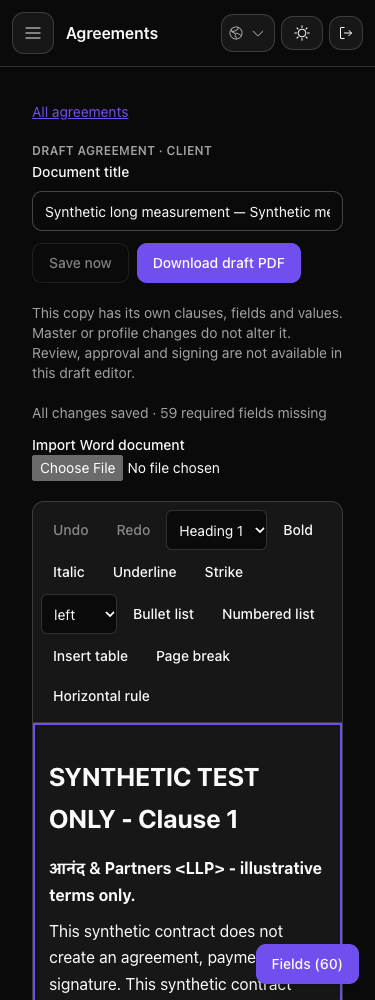
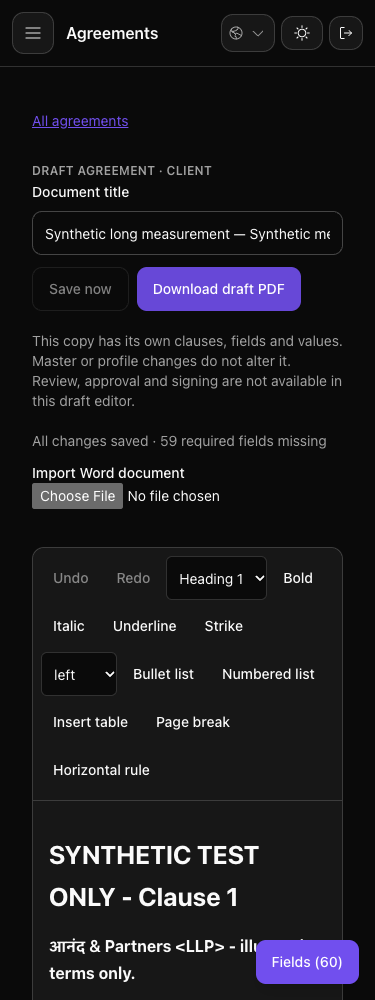
fix: improve agreement touch targets and search recovery

diff --git a/app/javascript/src/components/Agreements/index.tsx b/app/javascript/src/components/Agreements/index.tsx
@@ -36,6 +36,7 @@ const Generate = ({
   const [title, setTitle] = useState(template.title);
   const [error, setError] = useState("");
   const [busy, setBusy] = useState(false);
+  const [refresh, setRefresh] = useState(0);
   const mounted = useRef(true);
   useEffect(
     () => () => {
@@ -47,6 +48,7 @@ const Generate = ({
   useEffect(() => {
     let active = true;
     setParties(null);
+    setError("");
     const timer = setTimeout(() => {
       Api.get("/agreements/parties", {
         ...quiet,
@@ -68,7 +70,7 @@ const Generate = ({
       active = false;
       clearTimeout(timer);
     };
-  }, [query, page, template.kind]);
+  }, [query, page, template.kind, refresh]);
 
   const generate = async (event: React.FormEvent) => {
     event.preventDefault();
@@ -99,7 +101,7 @@ const Generate = ({
 
   return (
     <Dialog open onOpenChange={open => !open && !busy && close()}>
-      <DialogContent>
+      <DialogContent className="agreement-controls">
         <DialogHeader>
           <DialogTitle>Generate draft</DialogTitle>
           <DialogDescription>
@@ -195,9 +197,18 @@ const Generate = ({
             </div>
           )}
           {error && (
-            <p role="alert" className="text-sm text-destructive">
-              {error}
-            </p>
+            <div role="alert" className="space-y-2">
+              <p className="text-sm text-destructive">{error}</p>
+              {!parties && (
+                <Button
+                  type="button"
+                  variant="outline"
+                  onClick={() => setRefresh(value => value + 1)}
+                >
+                  Retry search
+                </Button>
+              )}
+            </div>
           )}
           <div className="flex justify-end gap-2">
             <Button
@@ -291,7 +302,7 @@ const Workspace = ({ companyId }: { companyId: number | string }) => {
   };
 
   return (
-    <div className="mx-auto max-w-7xl space-y-6 p-4 md:p-6">
+    <div className="agreement-controls mx-auto max-w-7xl space-y-6 p-4 md:p-6">
       <div className="flex flex-wrap items-start justify-between gap-3">
         <div>
           <h1 className="text-2xl font-semibold">Agreements</h1>
@@ -399,7 +410,7 @@ const Workspace = ({ companyId }: { companyId: number | string }) => {
         </div>
       )}
       <Dialog open={creating} onOpenChange={open => !busy && setCreating(open)}>
-        <DialogContent>
+        <DialogContent className="agreement-controls">
           <DialogHeader>
             <DialogTitle>New agreement template</DialogTitle>
             <DialogDescription>

diff --git a/app/javascript/src/components/Agreements/Editor.tsx b/app/javascript/src/components/Agreements/Editor.tsx
@@ -335,7 +335,7 @@ const LoadedEditor = ({
   ).length;
 
   return (
-    <div className="mx-auto max-w-7xl space-y-5 p-4 md:p-6">
+    <div className="agreement-controls mx-auto max-w-7xl space-y-5 p-4 md:p-6">
       <Link to="/agreements" className="text-sm text-primary underline">
         All agreements
       </Link>
@@ -483,6 +483,7 @@ const LoadedEditor = ({
       </Button>
       <Dialog open={fieldsOpen} onOpenChange={setFieldsOpen}>
         <DialogContent
+          className="agreement-controls"
           onCloseAutoFocus={event => {
             event.preventDefault();
             editor.current?.commands.focus();
@@ -502,7 +503,7 @@ const LoadedEditor = ({
         open={Boolean(preview)}
         onOpenChange={open => !open && setPreview(null)}
       >
-        <DialogContent className="max-h-[90vh] max-w-4xl overflow-y-auto">
+        <DialogContent className="agreement-controls max-h-[90vh] max-w-4xl overflow-y-auto">
           <DialogHeader>
             <DialogTitle>Preview Word import</DialogTitle>
             <DialogDescription>
@@ -541,7 +542,7 @@ const LoadedEditor = ({
         </DialogContent>
       </Dialog>
       <Dialog open={workspaceWarning} onOpenChange={setWorkspaceWarning}>
-        <DialogContent>
+        <DialogContent className="agreement-controls">
           <DialogHeader>
             <DialogTitle>Unsaved changes</DialogTitle>
             <DialogDescription>
@@ -554,7 +555,7 @@ const LoadedEditor = ({
         </DialogContent>
       </Dialog>
       <Dialog open={confirmReload} onOpenChange={setConfirmReload}>
-        <DialogContent>
+        <DialogContent className="agreement-controls">
           <DialogHeader>
             <DialogTitle>Discard local edits?</DialogTitle>
             <DialogDescription>
@@ -576,7 +577,7 @@ const LoadedEditor = ({
           if (!open && blocker.state === "blocked") blocker.reset();
         }}
       >
-        <DialogContent>
+        <DialogContent className="agreement-controls">
           <DialogHeader>
             <DialogTitle>Unsaved changes</DialogTitle>
             <DialogDescription>
@@ -638,7 +639,7 @@ const Editor = ({
   }, [companyId, type, id, refresh]);
   if (error) {
     return (
-      <div role="alert" className="space-y-3 p-6">
+      <div role="alert" className="agreement-controls space-y-3 p-6">
         <p>{error}</p>
         <Button onClick={() => setRefresh(value => value + 1)}>Retry</Button>
         <Link to="/agreements">All agreements</Link>

diff --git a/app/javascript/src/components/Agreements/Fields.tsx b/app/javascript/src/components/Agreements/Fields.tsx
@@ -229,7 +229,7 @@ const Fields = ({
 
   return (
     <aside
-      className="min-w-0 space-y-4 rounded-lg border border-border bg-card p-4"
+      className="agreement-controls min-w-0 space-y-4 rounded-lg border border-border bg-card p-4"
       aria-label="Document fields"
     >
       <div className="flex items-center justify-between gap-2">
@@ -311,7 +311,7 @@ const Fields = ({
         open={Boolean(removing)}
         onOpenChange={open => !open && setRemoving(null)}
       >
-        <DialogContent>
+        <DialogContent className="agreement-controls">
           <DialogHeader>
             <DialogTitle>Remove field?</DialogTitle>
             <DialogDescription>
@@ -338,7 +338,7 @@ const Fields = ({
         open={Boolean(editing)}
         onOpenChange={open => !open && setEditing(null)}
       >
-        <DialogContent>
+        <DialogContent className="agreement-controls">
           <DialogHeader>
             <DialogTitle>{original ? "Edit field" : "Add field"}</DialogTitle>
             <DialogDescription>

diff --git a/app/javascript/src/components/Agreements/editor.css b/app/javascript/src/components/Agreements/editor.css
@@ -1,3 +1,24 @@
+.agreement-controls button,
+.agreement-controls input:not([type="checkbox"]):not([type="radio"]),
+.agreement-controls select {
+  min-height: 2.75rem;
+  min-width: 2.75rem;
+}
+.agreement-controls label:has(input) {
+  min-height: 2.75rem;
+}
+.agreement-controls a {
+  display: inline-flex;
+  align-items: center;
+  min-height: 2.75rem;
+}
+.agreement-controls[role="dialog"] > button:last-child {
+  display: grid;
+  place-items: center;
+}
+.agreement-controls[role="dialog"] > div:first-child {
+  padding-right: 2.75rem;
+}
 .agreement-select {
   min-width: 0;
   width: 100%;

diff --git a/app/javascript/src/components/Agreements/DocumentEditor.tsx b/app/javascript/src/components/Agreements/DocumentEditor.tsx
@@ -75,7 +75,7 @@ const Toolbar = ({ editor }: { editor: Editor }) => {
   return (
     <div
       className="sticky top-0 z-10 flex flex-wrap items-center gap-1 rounded-t-lg border-b border-border bg-card p-2"
-      role="toolbar"
+      role="group"
       aria-label="Contract formatting"
     >
       {button(

diff --git a/spec/system/responsive/agreements_spec.rb b/spec/system/responsive/agreements_spec.rb
@@ -91,10 +91,51 @@ RSpec.describe "Agreement authoring", type: :system, js: true do
         expect(page.evaluate_script("document.documentElement.scrollWidth <= window.innerWidth + 1")).to be(true)
       end
       page.current_window.resize_to(375, 900)
+      heights = page.evaluate_script("Array.from(document.querySelectorAll('[aria-label=\"Contract formatting\"] button, [aria-label=\"Contract formatting\"] select'), element => element.getBoundingClientRect().height)")
+      expect(heights).not_to be_empty
+      expect(heights).to all(be >= 44)
       click_button "Fields (1)"
-      within('[role="dialog"]') { expect(page).to have_button("Edit Legal name") }
+      find('[role="dialog"]') { |dialog| dialog.evaluate_script("this.getAnimations().every(animation => animation.playState === 'finished')") }
+      within('[role="dialog"]') do
+        expect(page).to have_button("Edit Legal name")
+        expect(all("button").map { |button| button.evaluate_script("this.getBoundingClientRect().height") }).to all(be >= 44)
+      end
       expect(@console_errors).to be_empty
     end
+  end
+
+  it "retries a failed counterparty search without requiring the query to change" do
+    template = master
+    consultant = create(:employment, company:, resigned_at: nil, employment_type: "Consultant")
+    consultant.user.update!(first_name: "Synthetic", last_name: "Retry Consultant")
+    open_agreements
+    page.execute_script(<<~JS)
+      const open = XMLHttpRequest.prototype.open;
+      const send = XMLHttpRequest.prototype.send;
+      XMLHttpRequest.prototype.open = function(method, url, ...args) {
+        this.isPartySearch = String(url).includes("/agreements/parties");
+        return open.call(this, method, url, ...args);
+      };
+      XMLHttpRequest.prototype.send = function(body) {
+        if (this.isPartySearch) {
+          XMLHttpRequest.prototype.open = open;
+          XMLHttpRequest.prototype.send = send;
+          this.abort();
+          this.dispatchEvent(new ProgressEvent("error"));
+        } else send.call(this, body);
+      };
+    JS
+    within("article", text: template.title) { click_button "Generate draft" }
+    within('[role="dialog"]') do
+      expect(page).to have_css('[role="alert"]', text: /network|connection/i)
+      click_button "Retry search"
+      expect(page).to have_field("Find counterparty", with: "")
+      choose "Synthetic Retry Consultant"
+      click_button "Generate draft"
+    end
+    expect(page).to have_content(/Draft agreement/i)
+    expect(Agreement.find_by!(agreement_template: template).employment_id).to eq(consultant.id)
+    expect(@console_errors).to be_empty
   end
 
   it "previews Word import before replacement and keeps existing content after an unsupported upload" do

diff --git a/docs/superpowers/plans/2026-10-24-agreement-editor.md b/docs/superpowers/plans/2026-10-24-agreement-editor.md
@@ -196,16 +196,96 @@ REALITY: obligation-tiers pass Must-ship authoring gates retained; next review/s
 
 Scope accepted as-is; no new issues in the four engineering sections, no critical silent gaps, no unresolved decisions. Required reality rows and saved-report read-back must pass before the review is logged. Local completion suite: 149 examples, zero failures [measured: docs/qa/agreement-editor-2462/README.md:7]. Full CI and production release remain unproven.
 
+## Design review — implemented authoring unit
+
+Target: the agreement editor branch and this plan's authoring requirements. Calibration: DESIGN.md's Operational Calm, role clarity, semantic tokens, existing ui primitives and mobile-safe flows. This is app UI (OPERATE), not a landing page. Step0 initial impression:8/10; a complete plan here defines authoring hierarchy, all failure/recovery states, copy isolation, mobile controls and honest Draft status. All seven dimensions were assessed under the user's standing instruction to perform UI/UX reviews and fixes; no new user answer or product-scope decision is claimed.
+
+Designer setup found an installed binary, but its authentication resolver prioritizes a local JSON credential outside the mandated agent-vault flow; metadata lookup found no gstack OpenAI item. No secret was read, setup run, paid mockup generated or visual choice falsely attributed to the user. The user's secret-source rule takes precedence; review continued using the actual implemented UI. The external Codex voice is unavailable under the current Codex host. An explicitly required, read-only native design reviewer completed the separate design-plan assessment; it is in-host evidence, not Claude or external-provider coverage.
+
+### Pass1 — Information architecture:9/10 ->9/10
+
+No issues found. The shell identifies Agreements; archives distinguish Templates/Drafts; each editor identifies master or independent draft, title, save status and action before clauses. The contract body owns the workspace; field settings are secondary and open in a focused mobile dialog. No scope or layout redesign needed.
+
+```
+Miru shell -> Agreements -> Templates / Drafts archive
+  Template -> title/status/actions -> editable body + secondary fields
+    Generate -> choose company-scoped party -> independent Draft editor
+  Draft -> title/status/actions -> clauses/typed values -> explicit DRAFT PDF
+  Mobile -> full-width title/action row -> body -> Fields dialog -> field settings
+```
+
+### Pass2 — Interaction states:7/10 ->9/10
+
+Finding2 (Low, reproduced): failed party search described retry but offered no Retry control. Fixed with the existing button/state pattern and active-request cleanup. Query stays unchanged; a successful retry can generate the selected party's draft. This restores the already-required recoverable error state without adding a new product policy.
+
+| Feature | Loading | Empty | Error | Success | Partial |
+| --- | --- | --- | --- | --- | --- |
+| Archive | Loading agreements | Start master / generate copy guidance | Inline message + Retry | Named newest records | Explicit pagination |
+| Editor/save | Loading / Saving status | Editable blank paragraph | Retained dirty state + retry/recovery | All changes saved | Required-missing count |
+| Fields | Local explicit dialog | Add identity/payment/custom field | Validation beside configuration | Labeled placement/value | Required blanks stay Draft |
+| Word import | Checking Word document | Empty supported body normalizes | Unsupported upload leaves body intact | Preview before explicit replace | Normalized-layout warning |
+| Generation | Loading counterparties / Generating | Search/profile guidance | Retry search or retry submission | Independent draft route | No selection disables generate |
+| PDF | Preparing PDF | No invented completed document | Visible error, draft retained | Actual download | Dirty/busy disables export |
+
+### Pass3 — Journey:8/10 ->9/10
+
+No separate issue beyond the same search recovery gap. This storyboard is a simulated user journey, not usability-study evidence.
+
+| Step | User does | Likely concern | Specified support |
+| --- | --- | --- | --- |
+| Arrive | Opens Agreements | What can I edit? | Templates/Drafts and clear first action |
+| Author | Edits/imports terms and fields | Will text/formatting survive? | Schema, preview, warnings, actual reopen/export proof |
+| Save | Types and waits | Did it save? | Visible status; failed/stale writes retain recovery |
+| Generate | Finds client/consultant | Did the master change? | Explicit independent-copy explanation and identity snapshot |
+| Recover | Search/network/save fails | Must I start over? | Retry, retained query/body and explicit discard decisions |
+| Export | Downloads draft | Is this already approved/signed? | Draft label; no false approval/sign controls |
+
+### Pass4 — Specificity / slop:9/10 ->9/10
+
+No issues found; no hard rejection. The record rows and field sections contain actual actions/configuration. No decorative feature grid, generic hero, ornamental imagery, gradient, carousel, repeated mood copy or dashboard mosaic was added. All seven litmus answers are YES: Miru/Agreements context is clear; body is the visual anchor; title/status/actions scan; each section has one job; bounded record/field containers earn their function; motion is confined to state/dialog feedback; the layout works without decorative shadows. These are primary/native design judgments from source and actual screenshots, not external consensus.
+
+### Pass5 — Design system:8/10 ->9/10
+
+Finding1 overlaps Pass6: small controls did not meet the touch target contract. Existing Button/Input/Dialog primitives and CSS variables remain the vocabulary; the fix is scoped to agreement controls, including portals. Shared application primitives and theme settings are unchanged. Current dark screenshots are readable; color-only status is avoided and focus rings remain. Full assistive-technology/contrast certification is not claimed.
+
+### Pass6 — Responsive and accessibility:6/10 ->9/10
+
+Finding1 (Medium, reproduced): toolbar buttons were36px tall [measured: spec/system/responsive/agreements_spec.rb:94], below the design minimum. The shared agreement control style now enforces44px controls and clickable checkbox/radio labels; portal close buttons are centered with header clearance. First browser checks failed before the fix; settled toolbar and dialog geometry now pass without lowering the threshold. Dialog opening animation is allowed to finish before measuring. Width checks still cover320/375/1440, and the long mobile title remains readable [measured: spec/system/responsive/agreements_spec.rb:87].
+
+Finding3 (Low, static): formatting declared a toolbar while providing ordinary Tab stops. It is now a labeled group, matching its retained keyboard behavior. No bespoke arrow-key implementation was added. This follows the distinction in https://www.w3.org/WAI/ARIA/apg/patterns/toolbar/; no measured WCAG failure is claimed. Actual screen-reader sessions and physical mobile software keyboards remain unverified, with no claim that viewport testing proves them.
+
+### Pass7 — Unresolved design decisions
+
+None. Three concrete defects are fixed under existing user authorization for UI/UX fixes and established design/recovery requirements. No new product/design decisions were added, no user menu answer invented and no in-scope design remedy deferred. The9/10 completeness judgment reflects remaining real-environment validation limits rather than a pending design choice.
+
+NOT in scope: approvals/sharing/signing/addenda/immutable completed artifacts remain later units of the same open issue; arbitrary PDF body editing and lossless Word round-trip are not provided. What already exists: DESIGN.md, shell/navigation, ui primitives, focus/dialog behavior and theme tokens are reused. No new TODO proposed. No new tasks from Pass1, Pass3 or Pass4. Pass2 search recovery and Pass5/6 control/semantic tasks are implemented and verified; no open implementation task remains for this review.
+
+## Implementation Tasks
+
+- [x] T1 (P2, estimated human45min / agent10min): meet the existing touch-target requirement in agreement controls and portal dialogs. Files: Agreements CSS/Editor/Fields/index and system spec. Verified by settled44px measurements, mobile widths and actual screenshots.
+- [x] T2 (P2, estimated human30min / agent5min): recover failed party lookup with Retry search, retaining the query and active-request cleanup. Files: Agreements/index and system spec. Verified by a failed real-browser request followed by successful selection/generation.
+- [x] T3 (P2, estimated human5min / agent1min): use group semantics for existing ordinary Tab controls. File: Agreements/DocumentEditor. Verified by source and refreshed browser snapshot; no screen-reader certification claimed.
+
+## Design Review Completion Summary
+
+System audit: existing DESIGN.md, new archive/editor/dialog interactions; Step0 impression8/10. Passes1–6 before/after:9->9,7->9,8->9,9->9,8->9,6->9. Overall uses the lowest rated pass:6->9. Pass7: zero pending or deferred decisions. New product/design decisions:0. Generated/approved mockups:0/0. Native read-only reviewer: three findings, all fixed; external coverage unavailable. Scores are review judgments, not measurements.
+
+Standard combined suite:150/0 [measured: docs/qa/agreement-editor-2462/README.md:7]; Vite and focused lint pass. Real Playwright/Brave mobile screenshot and native field-settings screenshot are refreshed; current PDF text matches the previously rendered artifact. The separate screenshot harness's expired marker wait is explicitly excluded from passing-test evidence. No durable learning write-back performed. Full CI, CodeRabbit and production checks remain pending.
+
+## Engineering follow-up after design fixes
+
+Revisited the affected stages before refreshing exact-head evidence: architecture/security/storage/API contracts unchanged; code quality retains active-request cancellation for the new search refresh state and the existing error envelope; tests prove failed lookup recovery plus44px settled geometry; performance adds bounded local state/CSS work without new endpoints, loops over records, eager payloads or rendering per keystroke. No new engineering issues or silent critical gap. Unchanged model/parser/auth/export evidence is reused; the current150-example combined run also rechecks those contracts [measured: docs/qa/agreement-editor-2462/README.md:7]. Original scope/deferred requirements stay intact.
+
 ## GSTACK REVIEW REPORT
 
 | Review | Trigger | Why | Runs | Status | Findings |
 | --- | --- | --- | --- | --- | --- |
 | CEO Review | not run | No new product-scope decision | 0 | NOT RUN | Existing authoring unit retained |
-| Outside Review | Codex preflight | Independent plan challenge | 1 | UNAVAILABLE | Host mismatch; required native fallback tools absent |
-| Eng Review | /plan-eng-review | Architecture and tests | 1 | CLEAR; required log follows read-back | No new issues; no critical gaps; no unresolved decisions |
-| Design Review | /plan-design-review | UI/UX coverage | 0 | PENDING | Separate review remains required |
+| Outside Review | Codex preflight / native design assessment | Independent challenge | 2 phases | EXTERNAL UNAVAILABLE | Native design reviewer completed; three findings fixed |
+| Eng Review | /plan-eng-review + affected-stage follow-up | Architecture and tests | 2 | CLEAR; refreshed log follows read-back | No new issues; no critical gaps or unresolved decisions |
+| Design Review | /plan-design-review | UI/UX coverage | 1 | CLEAR; log follows read-back | Overall6->9; three implementation fixes; zero unresolved |
 | DX Review | /plan-devex-review | Internal API developer experience | 0 | PENDING | Separate review remains required |
 
-**OUTSIDE COVERAGE:** Codex / plan-review unavailable; no completed external phase or substitute credit.
-**VERDICT:** Engineering design clear for this authoring unit. Design/DX, exact-head CI, CodeRabbit and release checks remain required; this is not deployment approval.
+**OUTSIDE COVERAGE:** External Codex plan/design phases unavailable in current host. Native design assessment is in-host only; no outside-completion or cross-provider consensus claim.
+**VERDICT:** Engineering and design clear for this authoring unit after fixes. DX, exact-head CI, CodeRabbit and release checks remain required; no deployment approval is implied.
 NO UNRESOLVED DECISIONS

diff --git a/docs/qa/agreement-editor-2462/README.md b/docs/qa/agreement-editor-2462/README.md
@@ -4,7 +4,7 @@ Part of #2462; not a complete agreement/signing workflow. This local branch prov
 
 ## Verification
 
-The current combined agreement service/model/request, middleware and browser command passes **149 examples, zero failures**. The populated-field configuration regression described below is included. The required Vite build and focused Ruby/JS lint pass. The earlier API-only checkpoint command was `RAILS_ENV=test DATABASE_URL=<isolated local test DB> BROWSER_PATH=<installed Brave executable> rtk mise exec -- bundle exec rspec spec/services/agreements spec/models/agreement_template_spec.rb spec/models/agreement_spec.rb spec/requests/api/v1/agreement_templates_spec.rb spec/requests/api/v1/agreements_spec.rb` — **103 examples, zero failures**. That checkpoint also passed 12 existing policy/client regression examples. Expected invalid-page400, malformed-root400 and CSRF422 negative cases emit framework error logs; these are not production incidents.
+The current combined agreement service/model/request, middleware and browser command passes **150 examples, zero failures**. The populated-field, mobile touch-target and counterparty-search recovery regressions described below are included. The required Vite build and focused Ruby/JS lint pass. The earlier API-only checkpoint command was `RAILS_ENV=test DATABASE_URL=<isolated local test DB> BROWSER_PATH=<installed Brave executable> rtk mise exec -- bundle exec rspec spec/services/agreements spec/models/agreement_template_spec.rb spec/models/agreement_spec.rb spec/requests/api/v1/agreement_templates_spec.rb spec/requests/api/v1/agreements_spec.rb` — **103 examples, zero failures**. That checkpoint also passed 12 existing policy/client regression examples. Expected invalid-page400, malformed-root400 and CSRF422 negative cases emit framework error logs; these are not production incidents.
 
 Initial missing-domain run42/42 failed, then domain58/0 including existing regression cases. Missing-API/filter run20/19 failed. Follow-up tests exposed and fixed missing body-only edit audits, missing company-address crashes, missing consultant-address prefills and fractional heading levels. Discarded membership expectations use the real Devise401 behavior with JSON Accept; metadata-only audit expectations include update timestamps. The real PDF request restores Ferrum's constructor because the suite otherwise substitutes a global fake PDF browser.
 
@@ -49,6 +49,16 @@ Headed Brave on local arm64 macOS/Ruby4.0.9, one Falcon worker, isolated synthet
 Typing measures beforeinput-to-next-animation-frame, not full paint latency; save includes the800ms debounce. All60 fields survive each long-document load; neither viewport has horizontal overflow. The four initial master screenshots were captured through Playwright and visually inspected. The later mobile draft screenshot shows the corrected full-width title and separate action row. Actual device software-keyboard behavior, Linux fonts, full CI and deployment still require verification. [Raw measurements](editor-performance.json) retain the unrounded values. The initial preview servers stopped after a few minutes; failed connection/expired-session attempts were excluded, and the reported measurements completed against the single-worker server after normal UI sign-in.
 
 A further real headless-Brave/Cuprite workflow edits a field in the60-field contract at375px, generates a client draft, saves `आनंद & Núñez Private Limited` and downloads the actual PDF. Field-dialog opening took190ms, field-settings opening203ms and PDF download608ms, including browser-driver interaction. The PDF has25 tagged A4 pages, no PDF JavaScript, and all first/last clauses and unresolved-field labels; its first/last pages were rendered and visually inspected. Values wrap without overflow. [Raw dialog/download timings](editor-long-ui-performance.json) describe that separate environment. This case also exposed a mobile title squeezed by action buttons: its width assertion failed before the layout fix and passes afterward. A test viewport reset during sign-in was corrected by resizing and asserting375px after authentication.
+
+## Design review fixes
+
+The design review found three concrete defects, now fixed: undersized mobile controls, a missing counterparty-search Retry action, and toolbar semantics that did not match ordinary Tab navigation. Scoped agreement styles give controls and clickable checkbox/radio labels a 44px minimum; portal dialogs include the close affordance and reserve header space. Shared app primitives remain untouched. Formatting controls are a labeled group with ordinary Tab navigation.
+
+Real Brave checks failed for 36px toolbar buttons and the missing Retry search button, then passed after the fixes. The dialog geometry check waits for its opening animation to settle rather than weakening the size requirement. A first network failure now recovers through Retry search with the query unchanged, and produces the selected consultant's independent draft. The final standard combined suite passes **150 examples, zero failures in78.51s**; required Vite build, focused ESLint/Prettier and Ruby lint pass.
+
+The latest mobile draft screenshot was captured with Playwright attached to the owned synthetic Brave test browser. The field-settings screenshot and raw dialog/download measurements were refreshed by the final standard system run. Current local observations are186ms field-dialog opening,195ms field settings and692ms actual PDF download. Earlier timings above remain historical observations; none is a production/load guarantee. The current downloaded PDF's extracted text matches the previously rendered artifact, with25 A4 pages, DRAFT, the wrapped Unicode value, final clause and field, and no PDF JavaScript.
+
+The separate screenshot-capture harness timed out waiting for its completion marker after taking the Playwright image; its150/1 result is not used as a passing suite. The clean150/0 result is the normal command without that ignored QA hook. A standalone preview also stopped and is not claimed healthy. No generated mockup or human design approval is claimed; actual implemented-UI evidence is linked below.
 
 ## DOCX import evidence
 
